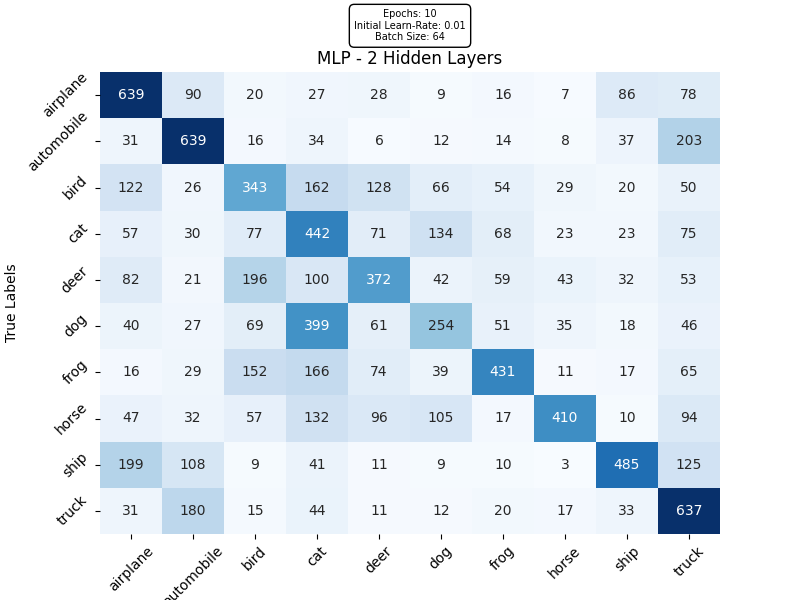
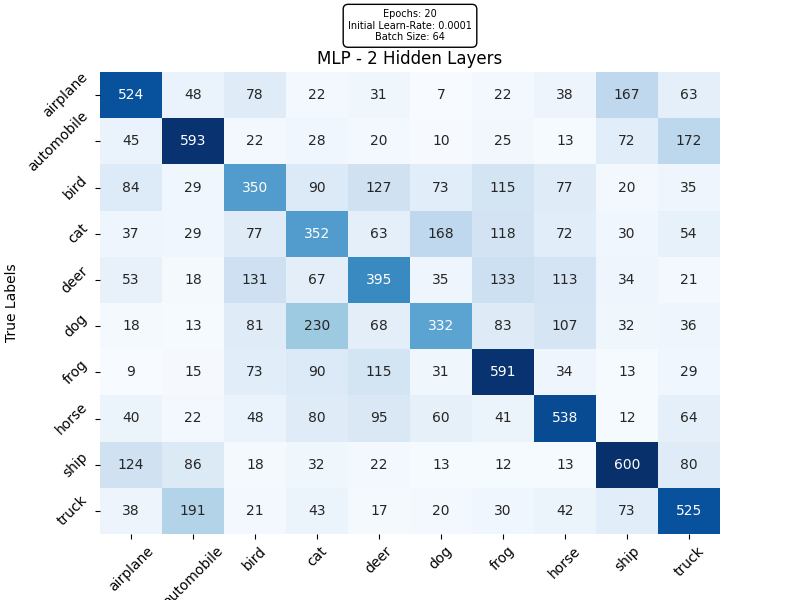
anpassung cifar datenvorverarbeitung

diff --git a/mlp_cifar_2hiddenLayers.py b/mlp_cifar_2hiddenLayers.py
@@ -25,7 +25,7 @@ class MLP(nn.Module):
             return x
         
 class Classifier:
-    def __init__(self, n_epochs, init_lr, momentum):
+    def __init__(self, n_epochs, init_lr):
 
         self.device = torch.device('cuda' if torch.cuda.is_available() else 'cpu')
 
@@ -34,11 +34,16 @@ class Classifier:
 
         self.n_epochs = n_epochs
         self.init_lr = init_lr
-        self.momentum = momentum
-        self.img_res = 32 * 32 * 3
+        self.img_res = 28 * 28 * 3      #eigentlich 32x32x3 aber es wird ein 28 Cropped Bild genommen
         self.num_classes = 10
 
+
+
+           
+
         transform = transforms.Compose([
+                transforms.RandomRotation(5, fill=(0.2)),    #Trainingsdatensatz um + - 5 Grad zufällig rotieren
+                transforms.RandomCrop(28, padding=2),       #2Pixel Rand erzeugen und davon 28x28 Pixel Crop nehmen
                 transforms.ToTensor(),
                 transforms.Normalize((0.4914, 0.4822, 0.4465), (0.2023, 0.1994, 0.2010)),
         ])
@@ -54,7 +59,8 @@ class Classifier:
                             train=False,
                             download=True,
                             transform=transform)
-        
+
+
         #Validierungs-Set vom Trainingsdatensatz erzeugen
         num_train = len(self.train_dataset)
         num_valid = int(self.valid_ratio * num_train)
@@ -81,6 +87,8 @@ class Classifier:
         self.optimizer = optim.Adam(self.network.parameters(), self.init_lr)
         self.criterion = nn.CrossEntropyLoss()  # Use CrossEntropyLoss instead of NLLLoss
         
+        self.valid_batch_losses = []
+        self.train_batch_losses = []
         self.train_losses = []
         self.train_counter = []
         self.valid_losses = []
@@ -207,10 +215,10 @@ class Classifier:
 
 
 def main():
-    n_epochs = 10
+    n_epochs = 20
     save = False
     log_interval = 10
-    init_lr = 0.01
+    init_lr = 0.0001
     cl = Classifier(n_epochs, init_lr)
     cl.test()
 

diff --git a/cnn_CIFAR10_ResNet.py b/cnn_CIFAR10_ResNet.py
@@ -26,9 +26,11 @@ def main():
 
     # 2. Daten laden und vorbereiten
     transform = transforms.Compose([
-        transforms.ToTensor(),
-        transforms.Normalize((0.4914, 0.4822, 0.4465), (0.247, 0.243, 0.261)) # CIFAR Normalisation und Standartabweichung der Kanäle
-    ])
+                transforms.RandomRotation(5, fill=(0.2)),    #Trainingsdatensatz um + - 5 Grad zufällig rotieren
+                transforms.RandomCrop(28, padding=2),       #2Pixel Rand erzeugen und davon 28x28 Pixel Crop nehmen
+                transforms.ToTensor(),
+                transforms.Normalize((0.4914, 0.4822, 0.4465), (0.2023, 0.1994, 0.2010)),
+        ])
 
     trainset = torchvision.datasets.CIFAR10(root='./data', train=True,
                                             download=True, transform=transform)

diff --git a/mlp_cifar_moreLayers.py b/mlp_cifar_moreLayers.py
@@ -76,10 +76,12 @@ class Classifier:
         self.n_epochs = n_epochs
         self.init_lr = init_lr
         self.momentum = momentum
-        self.img_res = 32 * 32 * 3
+        self.img_res = 28 * 28 * 3      #32x32 gecropped auf 28+28
         self.num_classes = 10
 
         transform = transforms.Compose([
+                transforms.RandomRotation(5, fill=(0.2)),    #Trainingsdatensatz um + - 5 Grad zufällig rotieren
+                transforms.RandomCrop(28, padding=2),       #2Pixel Rand erzeugen und davon 28x28 Pixel Crop nehmen
                 transforms.ToTensor(),
                 transforms.Normalize((0.4914, 0.4822, 0.4465), (0.2023, 0.1994, 0.2010)),
         ])

diff --git a/cnn_CIFAR10_LeNet5.py b/cnn_CIFAR10_LeNet5.py
@@ -82,9 +82,11 @@ class CNN_CIFAR_Classifier:
 
         self.n_epochs = n_epochs
         self.init_lr = init_lr
-        self.img_res = 32 * 32 * 3
+        self.img_res = 28 * 28 * 3      #32x32 gecropped auf 28+28
 
         transform = transforms.Compose([
+                transforms.RandomRotation(5, fill=(0.2)),    #Trainingsdatensatz um + - 5 Grad zufällig rotieren
+                transforms.RandomCrop(28, padding=2),       #2Pixel Rand erzeugen und davon 28x28 Pixel Crop nehmen
                 transforms.ToTensor(),
                 transforms.Normalize((0.4914, 0.4822, 0.4465), (0.2023, 0.1994, 0.2010)),
         ])
